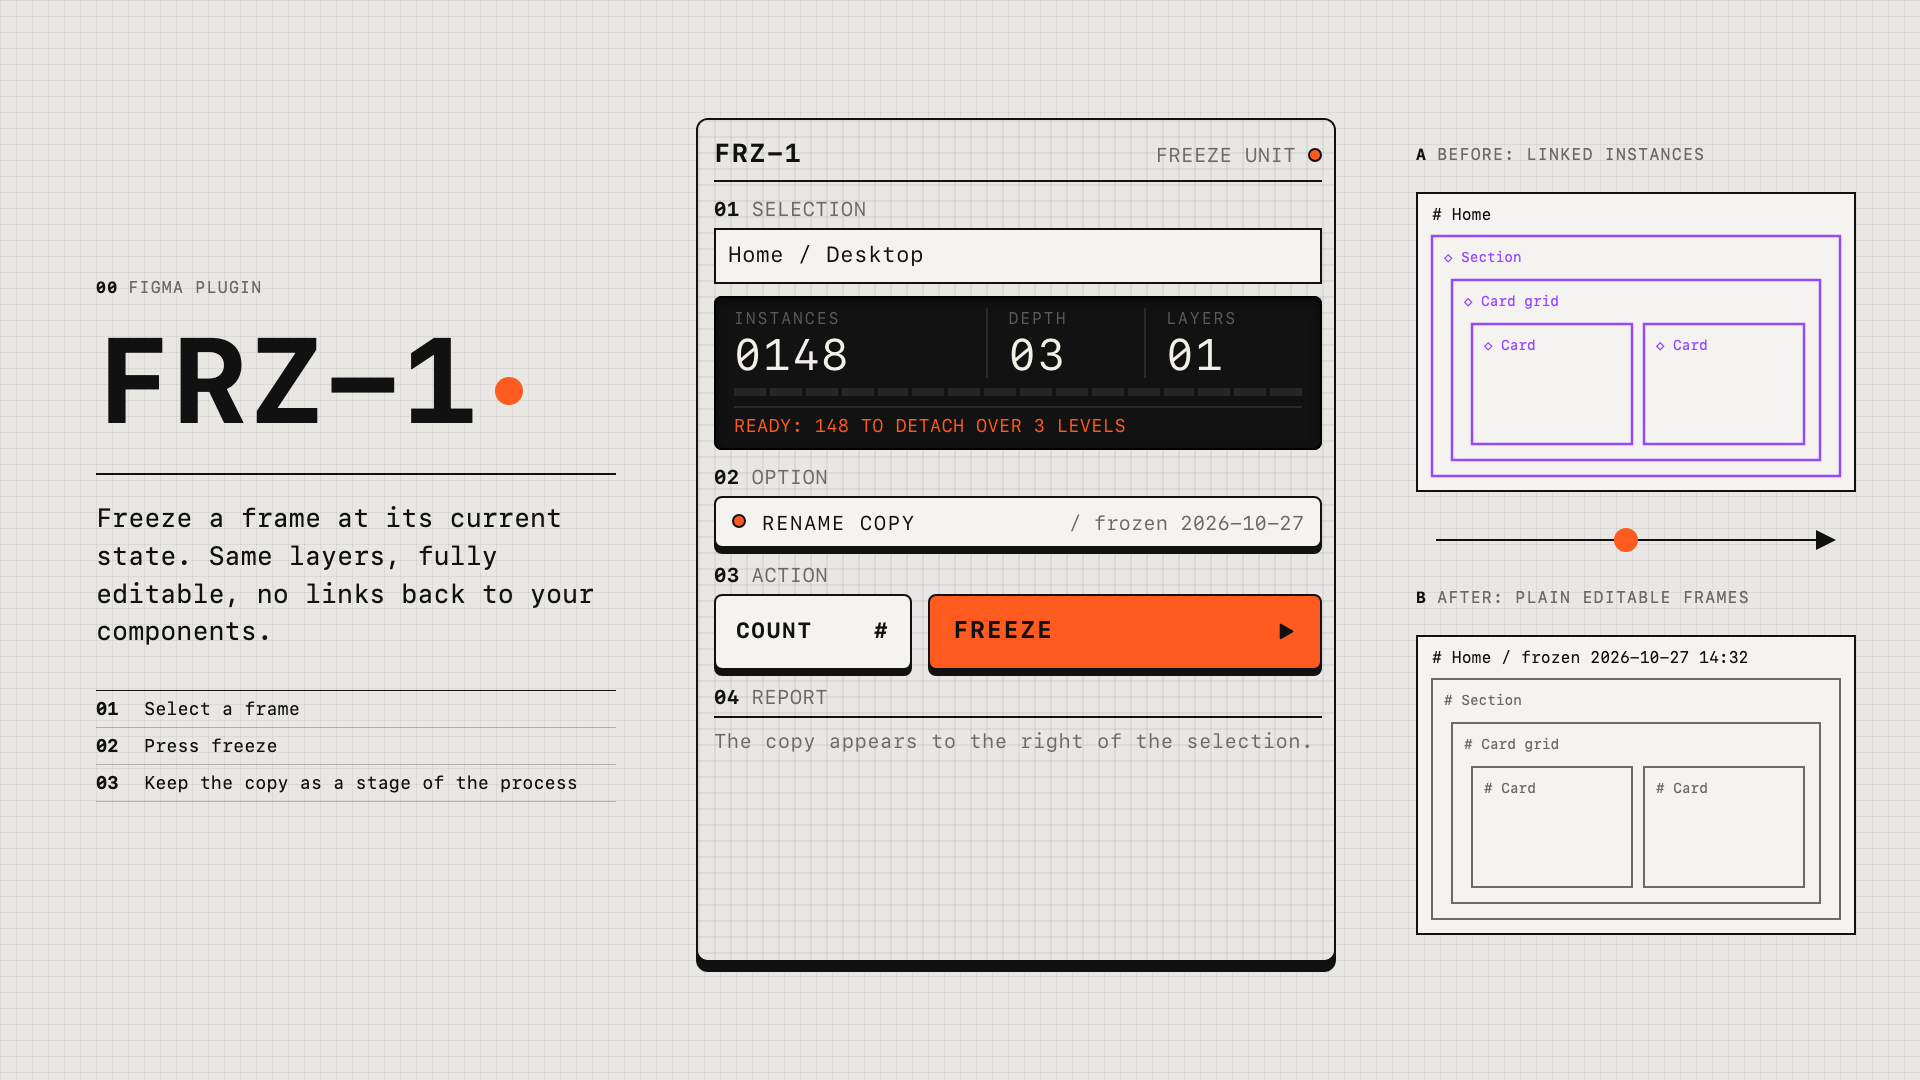
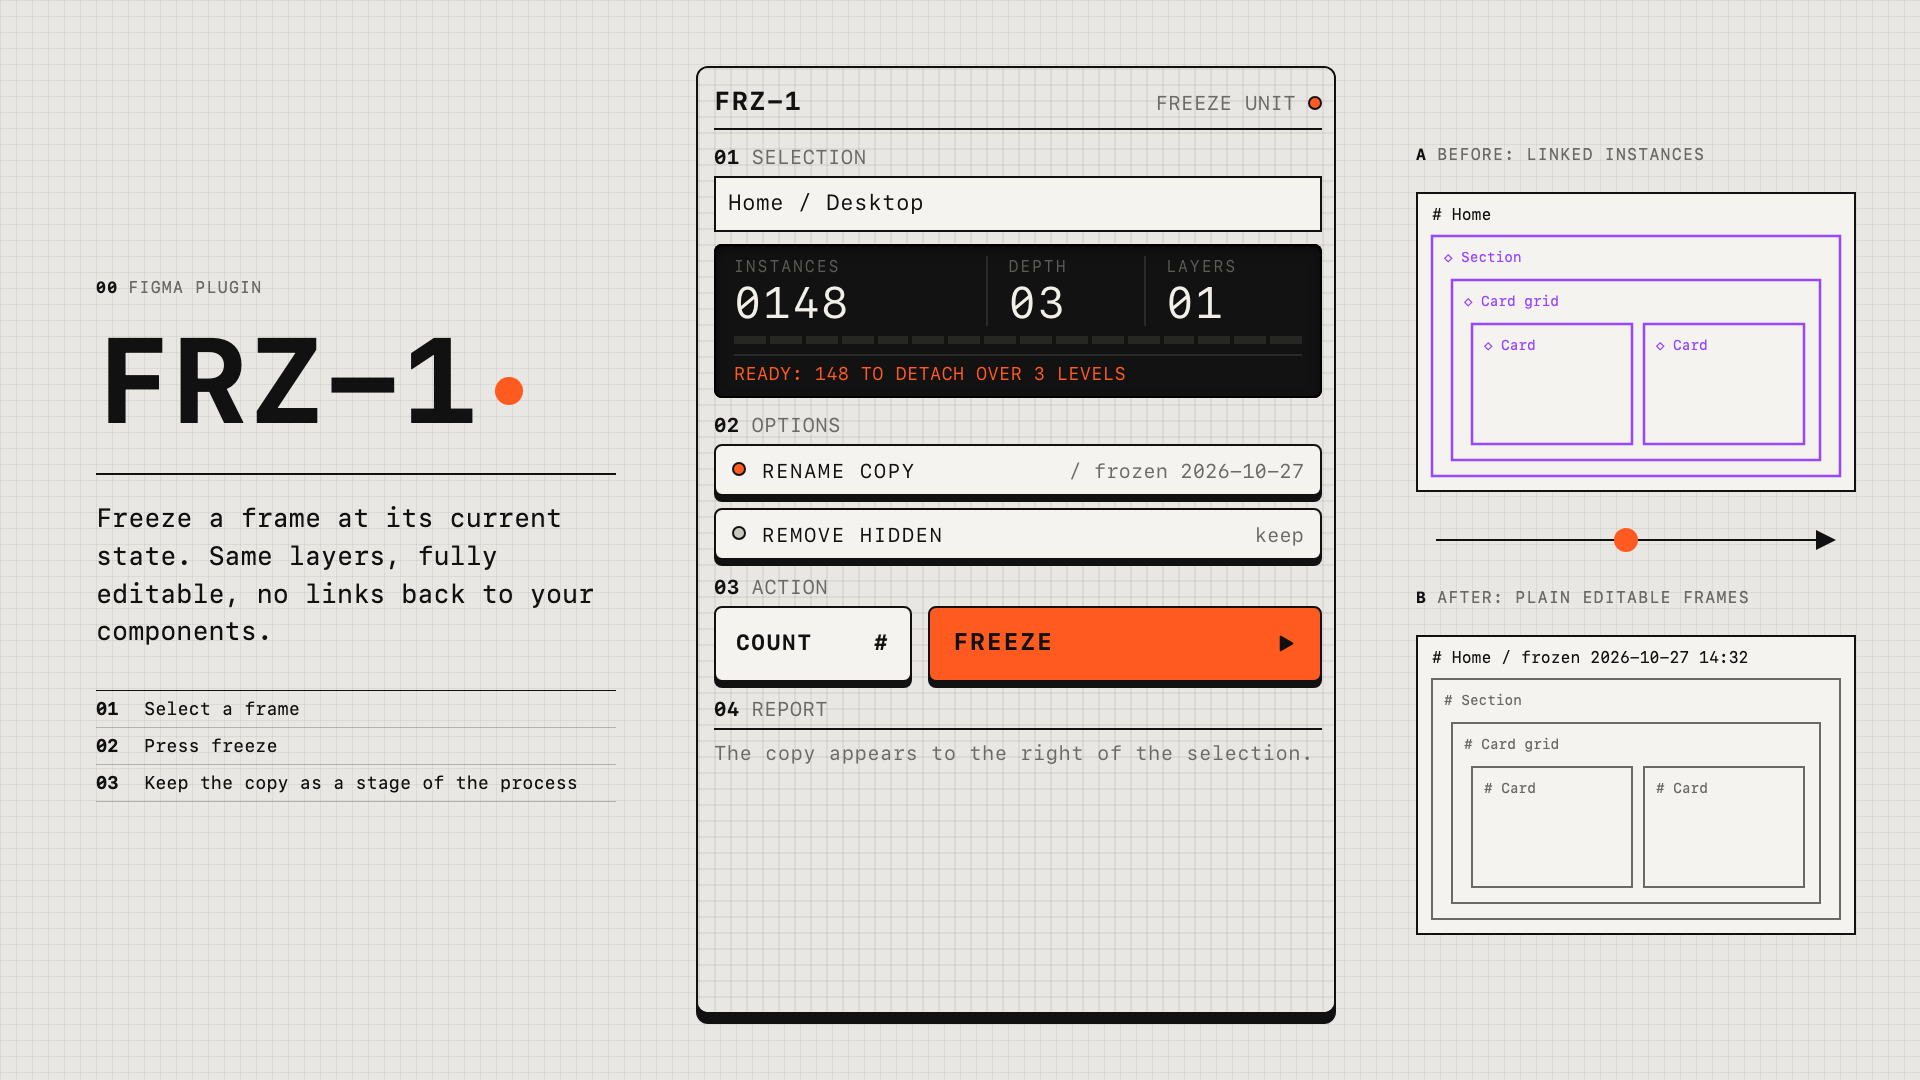
fix: make plugin window taller so the report fits
The remove hidden toggle took about 32px from the report, so after a
run the skipped layers sat below the fold and needed scrolling. The
window grows from 420px to 472px, which fits the full report even with
the hidden removed row.

The README images are re-rendered to show the new toggle. The render
script now pins the clock to the mock date, because the rename hint
reads today's date and drifted from the mock copy name.

Changed region(s): [[0.375, 0.0611, 0.6875, 0.7028], [0.3438, 0.8861, 0.7188, 0.9472]]

diff --git a/src/code.ts b/src/code.ts
@@ -7,7 +7,7 @@ import { cloneBeside, countSelection, describeSelection, freezeCopies, partition
 // traversal must not skip it.
 figma.skipInvisibleInstanceChildren = false
 
-figma.showUI(__html__, { width: 320, height: 420, themeColors: false })
+figma.showUI(__html__, { width: 320, height: 472, themeColors: false })
 
 let busy = false
 

diff --git a/scripts/cover.html b/scripts/cover.html
@@ -50,7 +50,7 @@
     overflow: hidden;
     background: var(--panel);
   }
-  .device img { display: block; width: 640px; height: 840px; }
+  .device img { display: block; width: 640px; height: 944px; }
   .compare { display: flex; flex-direction: column; gap: 28px; }
   svg text { font-family: var(--font); }
 </style>

diff --git a/README.md b/README.md
@@ -43,7 +43,7 @@ The plugin now appears under **Plugins > Development > FRZ-1**. Run `npm run bui
 
 The original is never changed. One **Undo** (Cmd+Z) removes the whole freeze.
 
-![The plugin window after a run: 148 instances detached over 3 levels, 0 left](docs/ui-result.png)
+![The plugin window after a run with Remove hidden on: 148 instances detached over 3 levels, 0 left, 12 hidden layers removed](docs/ui-result.png)
 
 ## How nested instances are handled
 
